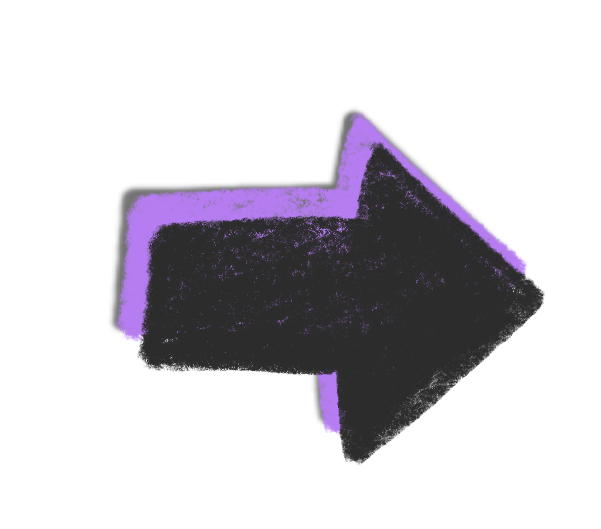
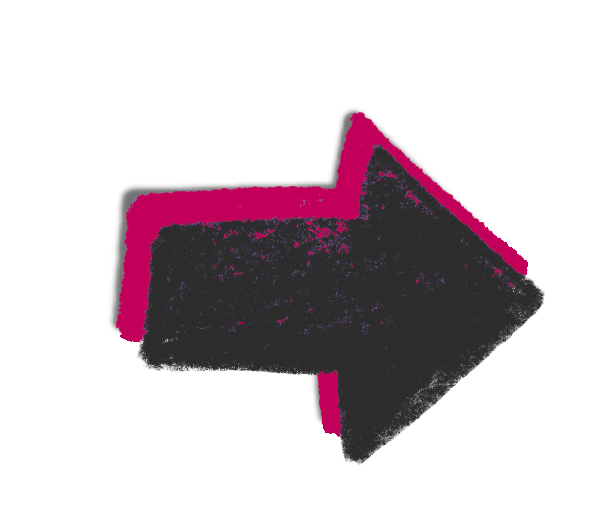
blue & pink

Changed region(s): [[0.1797, 0.2117, 0.8985, 0.6654], [0.5092, 0.6957, 0.5691, 0.8469]]

diff --git a/css/maleView.css b/css/maleView.css
@@ -3,19 +3,17 @@
     margin: 0;
     box-sizing: border-box;
 }
+
 body,html{
     width: 100%;
     height: 100%;
     background-color:#fef2dc;
 }
 
-
-
 #nextBtn:hover {
     background-image: url(../assets/maleview/nextHover.png);
     background-size: cover;
 }
-
 
 #nextBtn{
     background-image: url(../assets/maleview/next.png);
@@ -63,84 +61,3 @@ iframe{
     width: 320px;
     height: 240px;
 } */
-
-
-.popBox-mask{
-    position: fixed;
-    left: 0;
-    right: 0;
-    top: 0;
-    bottom: 0;
-    opacity: .6;
-    z-index: 999;
-    background-color: #000;
-}
-.popBox-content{
-    position: fixed;
-    left: 50%; 
-    top: 50%;
-    transform: translate(-50%,-50%);
-    z-index: 999;
-}
-
-#popBox-demo .popBox-content{
-    width: 900px;
-    height: 600px;
-    background-color: #292929;
-    text-align: center;
-    border-radius: 10px;
-}
-/* #popBox-demo{
-    line-height: 400px;
-    margin: 0;
-} */
-#popBox-demo .btn-close{
-    position: absolute;
-    top: 20px;
-    right: 20px;
-}
-p{
-    /* margin: 0; */
-    position: relative;
-    left: 50%; 
-    top: 40%;
-    transform: translate(-50%,-50%);
-    color: #000;
-    font-size: 20px;
-}
-.options{
-    position: absolute;
-    width:100%;
-    bottom: 20px;
-    text-align: center;
-}
-#goEye{
-    background-color:transparent;
-    outline: none;
-    border: none;
-    cursor:pointer;
-    padding: 3%;
-}
-#goMouse{
-    background-color:transparent;
-    outline: none;
-    border: none;
-    cursor:pointer;
-    /* padding: 5%; */
-}
-.intro{
-    position: relative;
-    /* left: 50%;  */
-    margin-top: 10px;
-}
-.eyeImg{
-    position: absolute;
-    left: 50%;
-    /* top: 20%; */
-    transform: translate(-50%,0);
-    height: 145px;
-    width: 205px;
-    margin-top: 40px;
-}
-
-

diff --git a/maleView.html b/maleView.html
@@ -38,47 +38,6 @@
         ></iframe>
         <button id="nextBtn" style="text-align: right"></button>
       </div>
-      <!-- popup -->
-      <div class="popBox" id="popBox-demo" style="display: none">
-        <div class="popBox-mask"></div>
-        <div class="popBox-content">
-          <div style="display: block; height: 200px">
-            <img src="images/male/open.gif" alt="gaze" class="eyeImg" />
-          </div>
-          <div style="display: block">
-            <img
-              src="images/male/popup_instruction.png"
-              class="intro"
-              alt="instruction"
-              style="width: 650px; margin-top: 10px"
-            />
-          </div>
-
-          <div class="options">
-            <div>
-              <button id="goEye">
-                <img
-                  src="./images/male/selectEye.GIF"
-                  height="80px"
-                  alt="Next"
-                />
-              </button>
-            </div>
-            <div>
-              <!-- <a id="goMouse">No, I want to use my mouse only.</a> -->
-              <button id="goMouse">
-                <img
-                  src="./images/male/selectMouse.png"
-                  height="20px"
-                  alt="Next"
-                />
-              </button>
-            </div>
-          </div>
-
-          <!-- <a href="javascript:void(0)" id="closeBtn" class="btn-close" οnclick="hidePopBox()">Close</a> -->
-        </div>
-      </div>
     </div>
     <!-- <div id="loading"></div> -->
 

diff --git a/p5/eye.js b/p5/eye.js
@@ -32,6 +32,15 @@ function preload() {
 // Setup
 function setup() {
   frameRate(15);
+
+  //  @inproceedings{papoutsaki2016webgazer,
+  //  author = {Alexandra Papoutsaki and Patsorn Sangkloy and James Laskey and Nediyana Daskalova and Jeff Huang and James Hays},
+  //  title = {WebGazer: Scalable Webcam Eye Tracking Using User Interactions},
+  //  booktitle = {Proceedings of the 25th International Joint Conference on Artificial Intelligence (IJCAI)},
+  //  pages = {3839--3845},
+  //  year = {2016},
+  //  organization={AAAI}
+  // }
   webgazer.begin();
   window.saveDataAcrossSessions = true;
   webgazer.setGazeListener(function(data, elapsedTime) {
@@ -111,7 +120,7 @@ function Eye(x, y) {
     push();
     translate(this.pos.x, this.pos.y);
     imageMode(CENTER);
-    image(eyeImg, this.size, this.size, this.width, this.width);
+    image(eyeImg, this.size, this.size, 60, 50);
     pop();
   };
 }
@@ -135,8 +144,8 @@ function draw() {
   gifControl();
   
   image(trace, 0, 0);
-  trace.stroke(90, 81, 210, 100); // fix the stroke style 47, 46, 46, 80, ----173, 113, 239----233, 190, 221
-  trace.strokeWeight(6);
+  trace.stroke(255, 39, 143, 80); // fix the stroke style 47, 46, 46, 80, ----173, 113, 239----233, 190, 221
+  trace.strokeWeight(12);
   // trace.line(mouseX, mouseY, pmouseX, pmouseY);
   trace.line(xprediction,yprediction,xprediction,yprediction);
   // console.log("xprediction:"+xprediction);

diff --git a/selfview.html b/selfview.html
@@ -17,7 +17,7 @@
     />
 
     <title>Male Gaze</title>
-    <link rel="stylesheet" href="./css/selfieview.css" />
+    <link rel="stylesheet" href="./css/selfview.css" />
   </head>
 
   <body>
@@ -27,16 +27,16 @@
       <div class="container">
         <div class="row">
           <div class="col-8 offset-1">
-            <img id="not" class="img-fluid" src="./asstes/selfview/not.gif" />
+            <img id="not" class="img-fluid" src="./assets/selfview/not.gif" />
             <span id="word"></span>
           </div>
           <div class="col-6 offset-3">
-            <img class="img-fluid" id = "look" src="./asstes/selfview/look-camera.gif" />
+            <img class="img-fluid" id = "look" src="./assets/selfview/look-camera.gif" />
           </div>
         </div>
       </div>
       <div class="col-6 offset-3 mt-auto">
-        <img class="img-fluid" src="./asstes/selfview/am.gif" />
+        <img class="img-fluid" src="./assets/selfview/am.gif" />
       </div>
     </div>
 
@@ -57,6 +57,6 @@
       integrity="sha384-OgVRvuATP1z7JjHLkuOU7Xw704+h835Lr+6QL9UvYjZE3Ipu6Tp75j7Bh/kR0JKI"
       crossorigin="anonymous"
     ></script>
-    <script src="./js/selfieview.js"></script>
+    <script src="./js/selfview.js"></script>
   </body>
 </html>

diff --git a/maleView_eye.html b/maleView_eye.html
@@ -24,13 +24,13 @@
     </div>
     <!-- <div id="loading"></div> -->
 
-    <!-- Optional JavaScript -->
+
     <!-- jQuery first, then Popper.js, then Bootstrap JS -->
     <script src="https://cdn.jsdelivr.net/npm/jquery@3.5.1/dist/jquery.slim.min.js" integrity="sha384-DfXdz2htPH0lsSSs5nCTpuj/zy4C+OGpamoFVy38MVBnE+IbbVYUew+OrCXaRkfj" crossorigin="anonymous"></script>
     <script src="https://cdn.jsdelivr.net/npm/popper.js@1.16.0/dist/umd/popper.min.js" integrity="sha384-Q6E9RHvbIyZFJoft+2mJbHaEWldlvI9IOYy5n3zV9zzTtmI3UksdQRVvoxMfooAo" crossorigin="anonymous"></script>
     <script src="https://cdn.jsdelivr.net/npm/bootstrap@4.5.0/dist/js/bootstrap.min.js" integrity="sha384-OgVRvuATP1z7JjHLkuOU7Xw704+h835Lr+6QL9UvYjZE3Ipu6Tp75j7Bh/kR0JKI" crossorigin="anonymous"></script>
 
     <!-- <script src="https://unpkg.com/intro.js/minified/intro.min.js"></script> -->
-    <script src="./js/maleView.js"></script>
+    <script src="./js/maleview.js"></script>
   </body>
 </html>

diff --git a/p5/mouse.js b/p5/mouse.js
@@ -48,7 +48,8 @@ function setup() {
   w2 = window.innerWidth / 2 + (window.innerHeight-100) * 730 / 1712 / 2;
 }
 
-//Particle
+// Particle
+// @avalibility: https://wow.techbrood.com/fiddle/33714
 function Eye(x, y) {
   this.x = x;
   this.y = y;
@@ -118,9 +119,9 @@ function draw() {
   gifControl();
   
   image(trace, 0, 0);
-  trace.stroke(90, 81, 210, 100); // fix the stroke style 47, 46, 46, 80, ----173, 113, 239----233, 190, 221
-  trace.strokeWeight(6);
-  trace.line(mouseX, mouseY, pmouseX, pmouseY);
+  trace.stroke(255, 39, 143, 80); // fix the stroke style 47, 46, 46, 80, ----173, 113, 239----233, 190, 221
+  trace.strokeWeight(12);
+  trace.line(mouseX, mouseY, mouseX, mouseY);
   console.log(mouseX);
   imageMode(CENTER);
   image(instructionImg,window.innerWidth / 2,window.innerHeight / 2-30+(window.innerHeight-100)/2,794,80);

diff --git a/js/maleView.js b/js/maleView.js
@@ -1,18 +1,12 @@
 var btn = document.getElementById("nextBtn");
-  btn.onclick = function () {
-    location.href = "./question.html";
-  };
-
-//   window.onload=function(){
-//     showPopBox();
-//   }
-// }
-
+btn.onclick = function () {
+  location.href = "./question.html";
+};
 
 // testBtn.onclick= function(){
 //   console.log("testBtn is clicked");
 //   location.href="./train.html";
-  
+
 // }
 
 // function showPopBox(){
@@ -21,10 +15,6 @@ var btn = document.getElementById("nextBtn");
 // function hidePopBox(){
 //   document.getElementById('popBox-demo').style.display = 'none';
 // }
-
-
-
-
 
 // var hover=document.getElementById('hover');
 // var video = document.getElementById('bodyShape');
@@ -80,6 +70,3 @@ var btn = document.getElementById("nextBtn");
 //      $("#loading").hide();
 //   });
 // });
-
-
-

diff --git a/js/question.js b/js/question.js
@@ -6,11 +6,11 @@ nextBtn.onclick=function(){
     console.log(ipt)
     if(ipt){
         window.localStorage.setItem('val',ipt);
-        location.href="./selfieView.html";
+        location.href="./selfview.html";
         if (camera == "on") {          
-            window.localStorage.setItem('look',"./asstes/selfview/look-camera.gif");
+            window.localStorage.setItem('look',"./assets/selfview/look-camera.gif");
          } else {
-            window.localStorage.setItem('look',"./asstes/selfview/look-black.gif");
+            window.localStorage.setItem('look',"./assets/selfview/look-black.gif");
          }
     }else{
         showError();
@@ -20,7 +20,3 @@ function showError(){
     document.getElementById('errorText').style.display = 'block';
 
 }
-
-
-
-

diff --git a/popup.html b/popup.html
@@ -15,7 +15,7 @@
   <body>
     <div class="container-fluid">
         <div class="row">
-            <iframe src="p5_bg/index.html" name="iframe1" id="iframe1" class="comments" ></iframe>
+            <iframe src="p5/bg.html" name="iframe1" id="iframe1" class="comments" ></iframe>
         </div>
         <!-- popup -->
         <div class="popBox" id="popBox-demo" style="display:block">

diff --git a/css/launch.css b/css/launch.css
@@ -15,10 +15,10 @@ body {
 }
 
 #start {
-  height: 9vh;
+  height: 10vh;
   margin: 0 auto;
   position: relative;
-  top: 40vh;
+  top: 30vh;
   display: block;
   cursor: pointer;
 }
